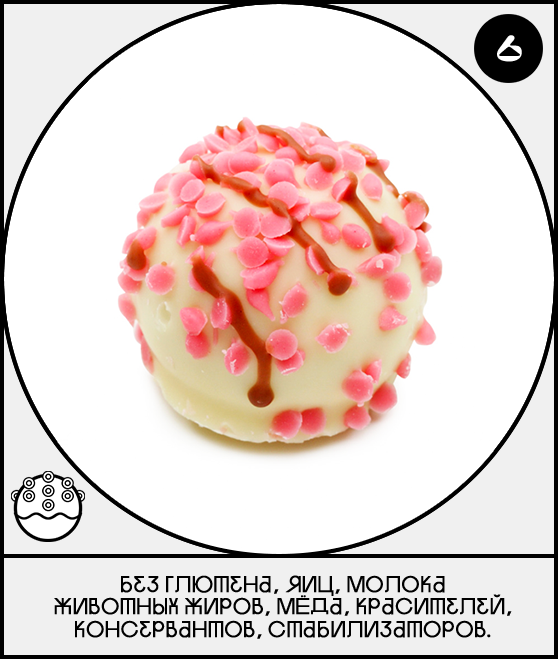
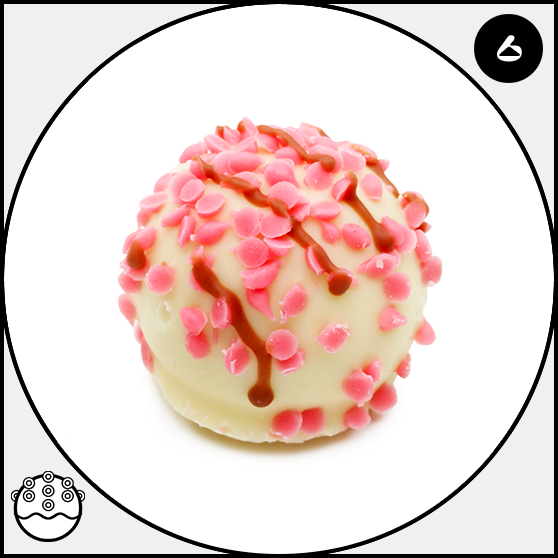
front card image and text seperated

diff --git a/src/App.css b/src/App.css
@@ -20,7 +20,7 @@ body {
   width: 100%;
   height: 100%;
   overflow-x: hidden;
-  overflow-y: hidden;
+  overflow-y: visible;
 }
 
 #rootdiv1 {
@@ -184,14 +184,14 @@ body {
 }
 
 #backimage {
-  margin-left: 38%;
-  margin-top: 15%;
+  margin-left: 42%;
+  margin-top: 10%;
 }
 
 #backimage1 {
   width: 80%;
   margin-left: 21px;
-  margin-top: 10%;
+  margin-top: 13%;
 }
 
 .circletopright {
@@ -383,10 +383,11 @@ svg {
 
 #bd {
   border-top: 2px solid black;
-  margin-top: 7.7vh;
+  margin-top: 0.7vh;
 }
 
 #backbottoming {
+  margin-top: 1.5vh;
   margin: 10px;
 }
 
@@ -450,10 +451,29 @@ svg {
     display: flex;
   }
 
+  #frontimgdiv {
+    height: 24vh;
+  }
+
+  #frontcardimg {
+    height: 100%;
+  }
+
+  #fronttext {
+    overflow: hidden;
+    word-break: break-all;
+    border: 1px solid black;
+  }
+
+  #fronttext h5 {
+    padding-top: 2%;
+    padding-left: 8%;
+    padding-right: 8%;
+  }
+
   #x {
     position: relative;
     top: 76.8px;
-
     height: 20px;
     overflow: hidden;
   }
@@ -487,7 +507,7 @@ svg {
   }
   #buttonaddress {
     margin-top: 0px !important;
-    margin-left: 3 vw;
+    margin-left: 3vw;
   }
   #textimg {
     height: 40px;
@@ -512,6 +532,22 @@ svg {
     margin-left: 6vw;
     margin-right: 0px;
     height: 14vw;
+  }
+
+  #frontimgdiv {
+    height: 23.4vh;
+  }
+
+  #frontcardimg {
+    height: 100%;
+  }
+
+  #fronttext {
+    border: 1px solid black;
+  }
+
+  #fronttext h5 {
+    padding: 2%;
   }
 
   #contactnumberdiv {
@@ -681,6 +717,14 @@ svg {
     top: 10px;
   }
 
+  #frontimgdiv {
+    height: 20vh;
+  }
+
+  #frontcardimg {
+    height: 100%;
+  }
+
   #x {
     /* border: 3px solid darkblue; */
     position: relative;
@@ -804,6 +848,14 @@ svg {
     position: relative;
     top: 10px;
   }
+
+  /* #frontimgdiv {
+    height: 22vh;
+  }
+
+  #frontcardimg {
+    height: 100%;
+  } */
 }
 
 /* **************************************************** */
@@ -937,6 +989,14 @@ svg {
     top: -118px;
     left: 82px;
   }
+
+  /* #frontimgdiv {
+    height: 22vh;
+  }
+
+  #frontcardimg {
+    height: 100%;
+  } */
 }
 
 /* ******************************** */
@@ -1086,6 +1146,14 @@ svg {
     top: -1.75vh !important;
     border-radius: 50%;
   }
+
+  /* #frontimgdiv {
+    height: 22vh;
+  }
+
+  #frontcardimg {
+    height: 100%;
+  } */
 }
 
 /* Responsive for 451-600px */
@@ -1195,6 +1263,14 @@ svg {
     max-width: 100%;
     min-height: 100%;
   }
+
+  /* #frontimgdiv {
+    height: 22vh;
+  }
+
+  #frontcardimg {
+    height: 100%;
+  } */
 }
 
 /* **************************************************** */
@@ -1359,6 +1435,14 @@ svg {
     top: -33.3vh !important;
     border-radius: 50%;
   }
+
+  /* #frontimgdiv {
+    height: 22vh;
+  }
+
+  #frontcardimg {
+    height: 100%;
+  } */
 }
 
 @media screen and (max-width: 385px) and (min-width: 320px) {
@@ -1519,6 +1603,14 @@ svg {
   #social_icons {
     display: none;
   }
+
+  /* #frontimgdiv {
+    height: 22vh;
+  }
+
+  #frontcardimg {
+    height: 100%;
+  } */
 }
 
 @media screen and (max-width: 320px) and (min-width: 250px) {
@@ -1548,4 +1640,12 @@ svg {
     top: -25vh !important;
     border-radius: 50%;
   }
+
+  /* #frontimgdiv {
+    height: 22vh;
+  }
+
+  #frontcardimg {
+    height: 100%;
+  } */
 }

diff --git a/src/components/bottomcard/frontCard.js b/src/components/bottomcard/frontCard.js
@@ -9,7 +9,17 @@ function Card(props) {
         <div id="section1">
           <div id="frontpart">
             <div id="cardimg" className="circleBottom">
-              <img src={props.src} id={props.id}></img>
+              <div id="imgandtext">
+                <div id="frontimgdiv">
+                  <img src={props.src} id="frontcardimg"></img>
+                </div>
+                <div id="fronttext">
+                  <h5>
+                    Без глютена, яиц, молока животных жиров, мёда, красителей,
+                    конс
+                  </h5>
+                </div>
+              </div>
             </div>
             {/* <div id="cardTextContent">
               "Cupcake ipsum dolor sit. Amet I love liquorice jujubes pudding
@@ -22,8 +32,8 @@ function Card(props) {
                 <img
                   src={Image}
                   id="backimage"
-                  height="80px"
-                  width="60px"
+                  height="70px"
+                  width="50px"
                 ></img>
               </div>
             </div>
